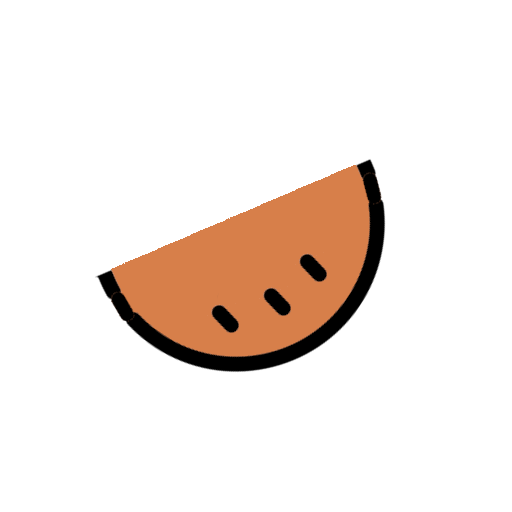
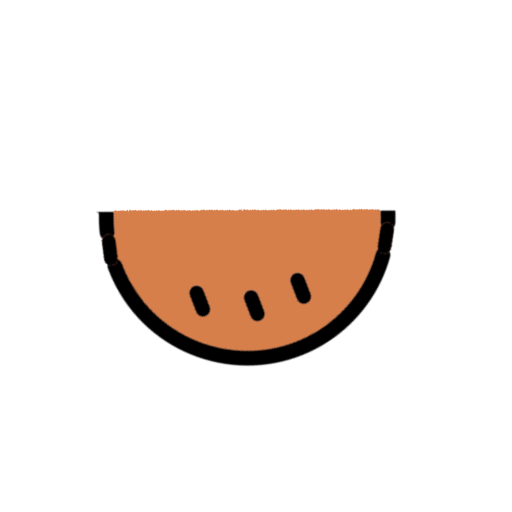
Auto-commit: periodic save

Changed region(s): [[0.1875, 0.3125, 0.7812, 0.75]]

diff --git a/Assets/FlapperScript.cs b/Assets/FlapperScript.cs
@@ -1,0 +1,101 @@
+using System.Collections;
+using UnityEngine;
+// No need for System.Collections for instant flip, but keeping it if you add other coroutines
+
+public class SimpleFlipper : MonoBehaviour
+{
+  [Header("Flip Settings")]
+    [Tooltip("The duration of the flip animation in seconds.")]
+    public float flipDuration = 0.5f;
+
+    [Tooltip("The axis around which the object will rotate 180 degrees for the invert. " +
+             "Set to Vector3.right (1,0,0) for vertical invert (somersault).")]
+    public Vector3 flipAxis = Vector3.right; // Default to Vector3.right for vertical invert
+
+    [Header("Position Change Settings")]
+    [Tooltip("The target X position the object will move to during the flip.")]
+    public float targetPositionX = -1.3f; // User-specified target X
+    [Tooltip("The target Y position the object will move to during the flip.")]
+    public float targetPositionY = 0.76f; // User-specified target Y
+
+    private bool isFlipping = false; // To prevent multiple flips at once
+    private SpriteRenderer spriteRenderer; // Reference to the SpriteRenderer
+
+    void Awake()
+    {
+        // Get the SpriteRenderer component
+        spriteRenderer = GetComponent<SpriteRenderer>();
+        if (spriteRenderer == null)
+        {
+            Debug.LogError("SimpleFlipper: No SpriteRenderer found on this GameObject. Please assign one or ensure it's on the same GameObject.", this);
+            enabled = false; // Disable script if no SpriteRenderer is found
+        }
+    }
+
+  // --- Example Usage (Optional - for quick testing) ---
+  // You can remove or comment out this Update method in your final game
+  // and call InvertSpriteVertically() from another script (e.g., when a player jumps).
+  private LogicScript logic;
+
+  void Start()
+  {
+    logic = FindObjectOfType<LogicScript>();
+    if (logic == null)
+    {
+      Debug.LogError("SimpleFlipper: LogicScript not found in the scene.");
+    }
+  }
+
+  public void StartFlip()
+    {
+        if (!isFlipping) // Only start flip if not already flipping
+        {
+            StartCoroutine(FlipAndMoveCoroutine());
+        }
+    }
+
+  void Update()
+  {
+    if (logic != null && logic.birdIsAlive)
+    {
+      StartFlip();
+    }
+  }
+    
+    private IEnumerator FlipAndMoveCoroutine()
+    {
+        isFlipping = true; // Set flag to true
+
+        // Store initial rotation and position
+        Quaternion startRotation = transform.rotation;
+        Vector3 startPosition = transform.position;
+
+        // Calculate target rotation (180 degrees around the specified axis relative to start)
+        Quaternion targetRotation = startRotation * Quaternion.Euler(flipAxis * 180f);
+
+        // Define target position (keeping Z constant)
+        Vector3 targetPosition = new Vector3(targetPositionX, targetPositionY, startPosition.z);
+
+        float elapsedTime = 0f;
+
+        while (elapsedTime < flipDuration)
+        {
+            float t = elapsedTime / flipDuration; // Normalized time (0 to 1)
+
+            // Smoothly interpolate rotation using Spherical Linear Interpolation (Slerp)
+            transform.rotation = Quaternion.Slerp(startRotation, targetRotation, t);
+
+            // Smoothly interpolate position using Linear Interpolation (Lerp)
+            transform.position = Vector3.Lerp(startPosition, targetPosition, t);
+
+            elapsedTime += Time.deltaTime; // Increment elapsed time
+            yield return null; // Wait for the next frame
+        }
+
+        // Ensure the rotation and position are exactly at the target values at the end
+        transform.rotation = targetRotation;
+        transform.position = targetPosition;
+
+        isFlipping = false; // Reset flag
+    }
+}
